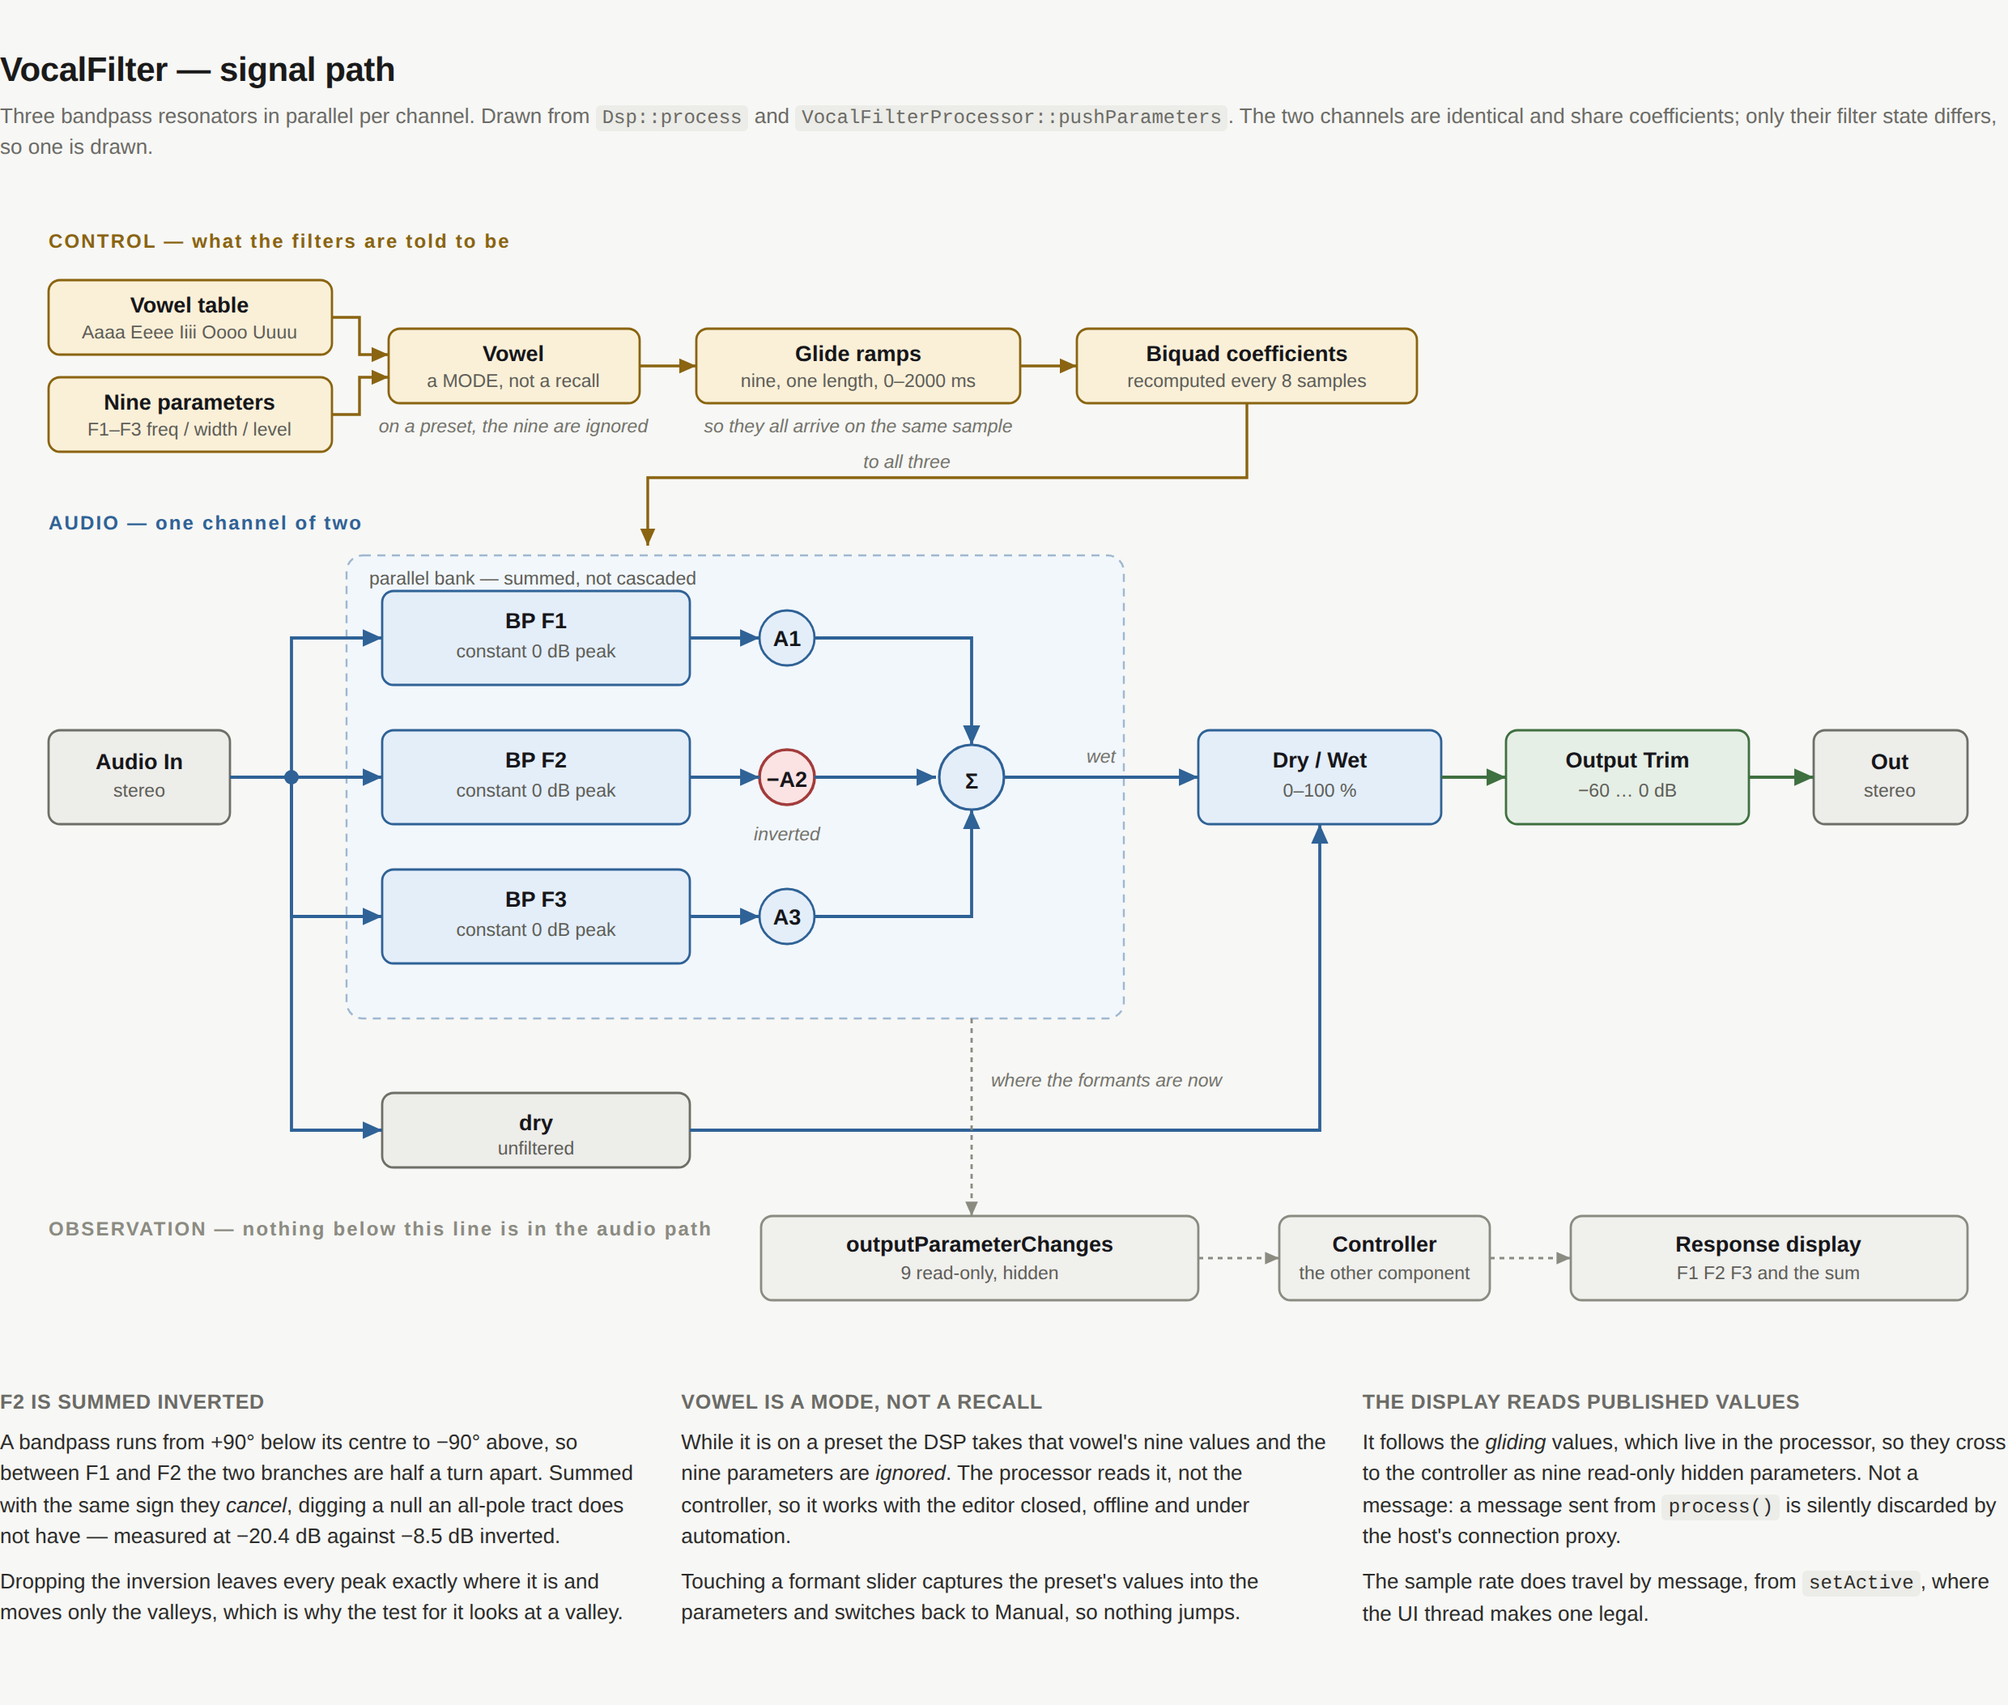
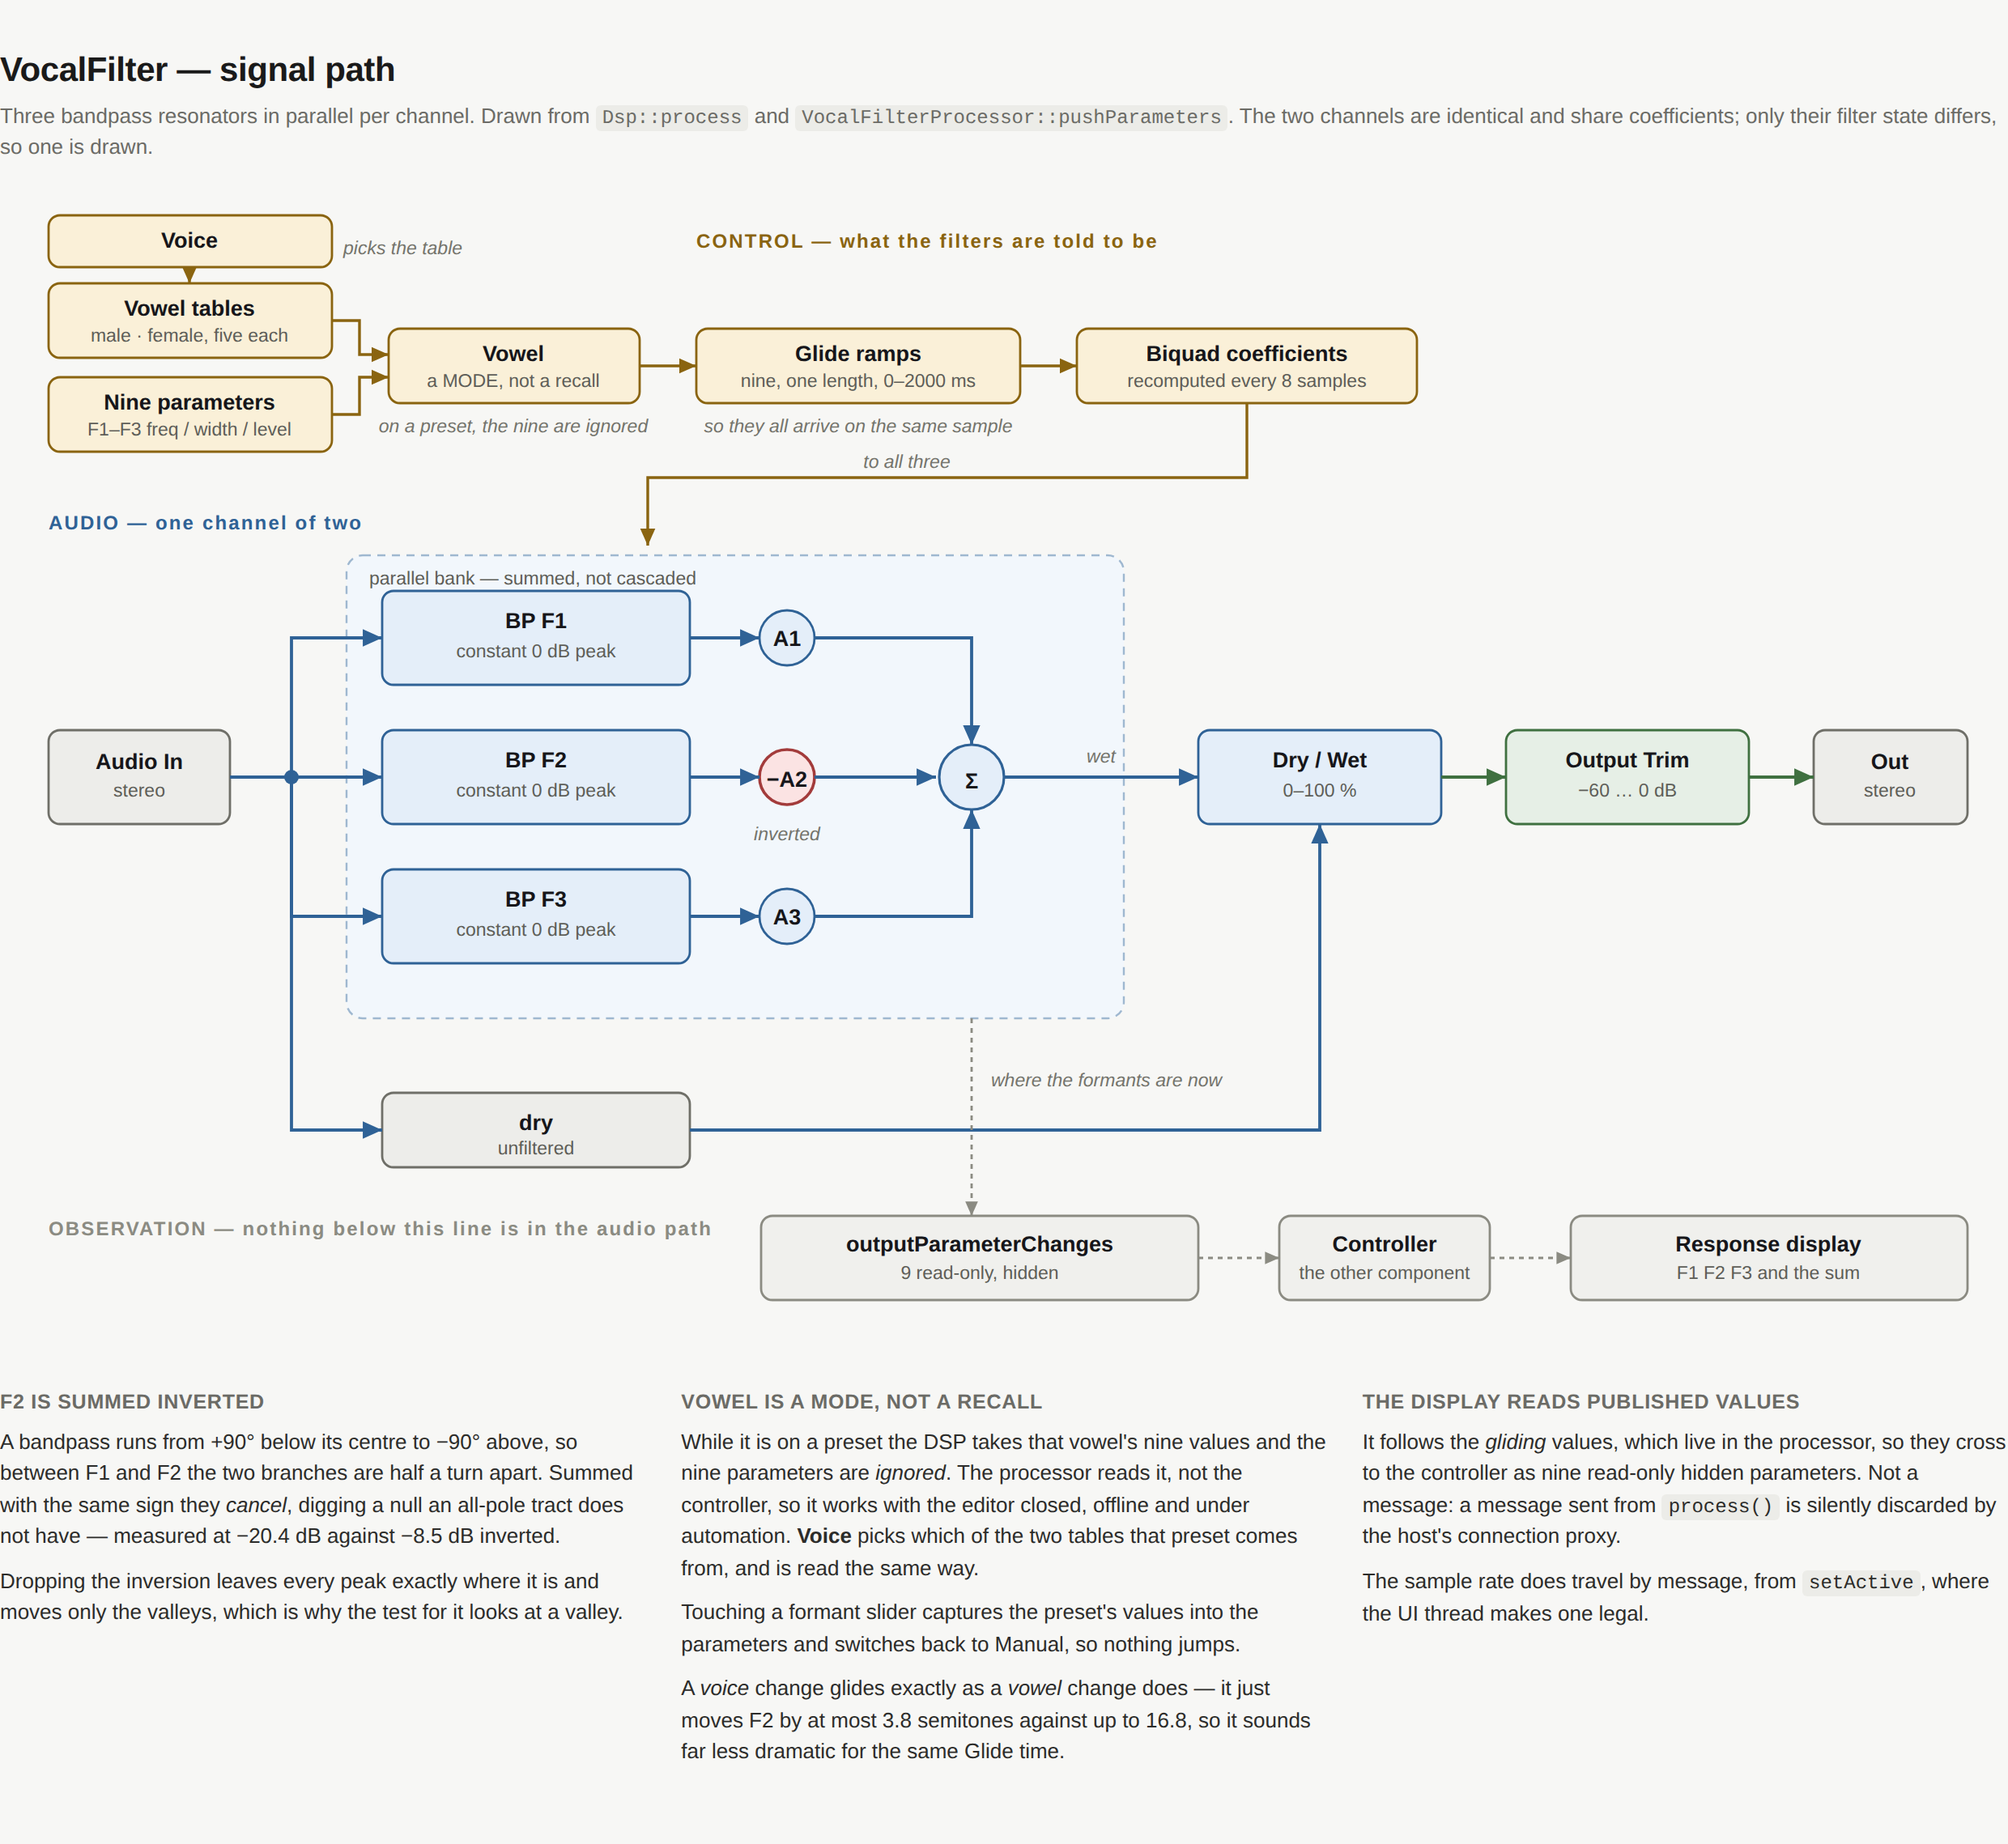
docs: the signal path grows a Voice switch
The diagram predated it and still showed a single vowel table. The control
plane now has Voice feeding Vowel tables - male, female, five each - so the
selector reads as picking a table rather than a preset outright.

The notes column that explains the Vowel mode now covers Voice too,
including the measurement behind the report that its glide looked broken: a
voice change moves F2 by at most 3.8 semitones against up to 16.8 for a
vowel change, so the same Glide time sounds far less dramatic.

The panel renders needed nothing - render-panel.py generates them from the
layout constants and they were regenerated when the switch went in.

Claude-Session: https://claude.ai/code/session_01WHAtp8HcsBqXyh17xp3VZg

diff --git a/docs/signal-path.html b/docs/signal-path.html
@@ -16,7 +16,7 @@
 <p class="sub">Three bandpass resonators in parallel per channel. Drawn from <code>Dsp::process</code> and <code>VocalFilterProcessor::pushParameters</code>. The two channels are identical and share coefficients; only their filter state differs, so one is drawn.</p>
 
 <svg viewBox="0 0 1240 720" width="1240" height="720" role="img"
-     aria-label="Signal flow diagram. A control plane along the top takes either the vowel preset table or the nine formant parameters, selected by the Vowel mode, through glide ramps into biquad coefficients, which feed a parallel bank of three bandpass filters. The audio input splits into that bank and a dry path; the bank's three outputs are scaled and summed, with F2 inverted, then crossfaded against dry and scaled by output trim. A dashed tap carries the live formant values out through read-only parameters to the controller and the response display.">
+     aria-label="Signal flow diagram. A control plane along the top takes either a vowel preset - from the male or female table, chosen by the Voice switch - or the nine formant parameters, selected by the Vowel mode, through glide ramps into biquad coefficients, which feed a parallel bank of three bandpass filters. The audio input splits into that bank and a dry path; the bank's three outputs are scaled and summed, with F2 inverted, then crossfaded against dry and scaled by output trim. A dashed tap carries the live formant values out through read-only parameters to the controller and the response display.">
   <defs>
     <marker id="aa" viewBox="0 0 10 10" refX="9" refY="5" markerWidth="7" markerHeight="7" orient="auto-start-reverse">
       <path d="M0,1 L9,5 L0,9 z" fill="#2f6296"/>
@@ -50,11 +50,16 @@
   </defs>
 
   <!-- ==================== CONTROL PLANE ==================== -->
-  <text class="lane" x="30" y="38" fill="#8a6410">CONTROL — what the filters are told to be</text>
+  <text class="lane" x="430" y="38" fill="#8a6410">CONTROL — what the filters are told to be</text>
 
-  <rect class="bx ctl" x="30" y="58" width="175" height="46"/>
-  <text class="t" x="117" y="78" text-anchor="middle">Vowel table</text>
-  <text class="s" x="117" y="94" text-anchor="middle">Aaaa Eeee Iiii Oooo Uuuu</text>
+  <rect class="bx ctl" x="30" y="18" width="175" height="32"/>
+  <text class="t" x="117" y="38" text-anchor="middle">Voice</text>
+
+  <rect class="bx ctl" x="30" y="60" width="175" height="46"/>
+  <text class="t" x="117" y="80" text-anchor="middle">Vowel tables</text>
+  <text class="s" x="117" y="96" text-anchor="middle">male · female, five each</text>
+  <path class="wc" d="M117,50 V60" marker-end="url(#ac)"/>
+  <text class="note" x="212" y="42" text-anchor="start">picks the table</text>
 
   <rect class="bx ctl" x="30" y="118" width="175" height="46"/>
   <text class="t" x="117" y="138" text-anchor="middle">Nine parameters</text>
@@ -63,7 +68,7 @@
   <rect class="bx ctl" x="240" y="88" width="155" height="46"/>
   <text class="t" x="317" y="108" text-anchor="middle">Vowel</text>
   <text class="s" x="317" y="124" text-anchor="middle">a MODE, not a recall</text>
-  <path class="wc" d="M205,81 H222 V104 H240" marker-end="url(#ac)"/>
+  <path class="wc" d="M205,83 H222 V104 H240" marker-end="url(#ac)"/>
   <path class="wc" d="M205,141 H222 V118 H240" marker-end="url(#ac)"/>
   <text class="note" x="317" y="152" text-anchor="middle">on a preset, the nine are ignored</text>
 
@@ -179,8 +184,9 @@
   </div>
   <div>
     <h2>Vowel is a mode, not a recall</h2>
-    <p>While it is on a preset the DSP takes that vowel's nine values and the nine parameters are <em>ignored</em>. The processor reads it, not the controller, so it works with the editor closed, offline and under automation.</p>
+    <p>While it is on a preset the DSP takes that vowel's nine values and the nine parameters are <em>ignored</em>. The processor reads it, not the controller, so it works with the editor closed, offline and under automation. <strong>Voice</strong> picks which of the two tables that preset comes from, and is read the same way.</p>
     <p>Touching a formant slider captures the preset's values into the parameters and switches back to Manual, so nothing jumps.</p>
+    <p>A <em>voice</em> change glides exactly as a <em>vowel</em> change does — it just moves F2 by at most 3.8 semitones against up to 16.8, so it sounds far less dramatic for the same Glide time.</p>
   </div>
   <div>
     <h2>The display reads published values</h2>

diff --git a/docs/README.md b/docs/README.md
@@ -27,6 +27,9 @@ PY
 Blue is audio, amber is control — what the filters are *told* to be — and
 grey dashed is observation. **Nothing drawn dashed is in the audio path.**
 
+Regenerate it after any change to the routing: the HTML is hand-authored and
+the PNG is rendered from it, so the two only stay in step deliberately.
+
 It is worth having because three things about this plug-in are easier to see
 than to read:
 
@@ -37,7 +40,10 @@ than to read:
   valley.
 * **Vowel is a mode, not a recall.** On a preset the DSP takes that vowel's
   nine values and the nine parameters are ignored. The processor reads it, not
-  the controller, which is what makes it work with the editor closed.
+  the controller, which is what makes it work with the editor closed. **Voice**
+  picks which of the two tables that preset comes from and is read the same
+  way — which is why it appears in the control plane rather than beside the
+  filters.
 * **The display reads published values, not parameters.** The nine read-only
   hidden parameters exist because a message sent from `process()` is silently
   discarded by the host's connection proxy.
